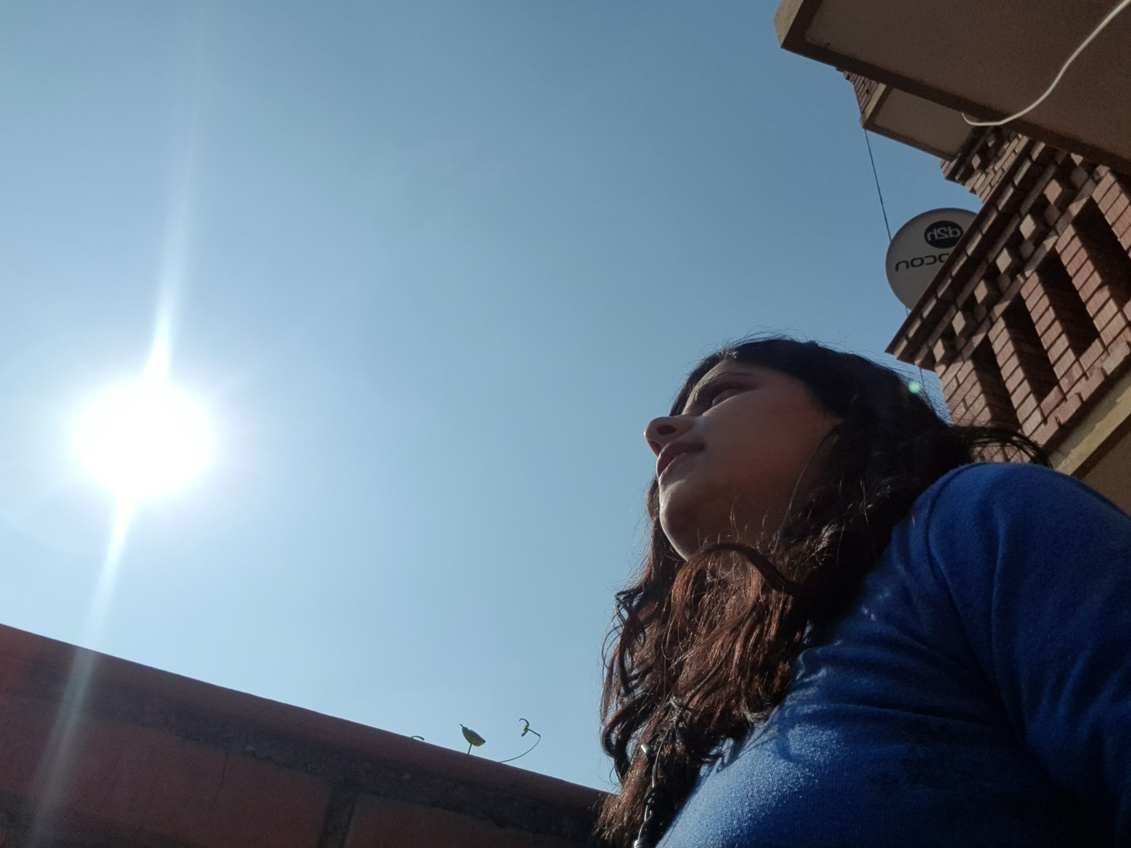
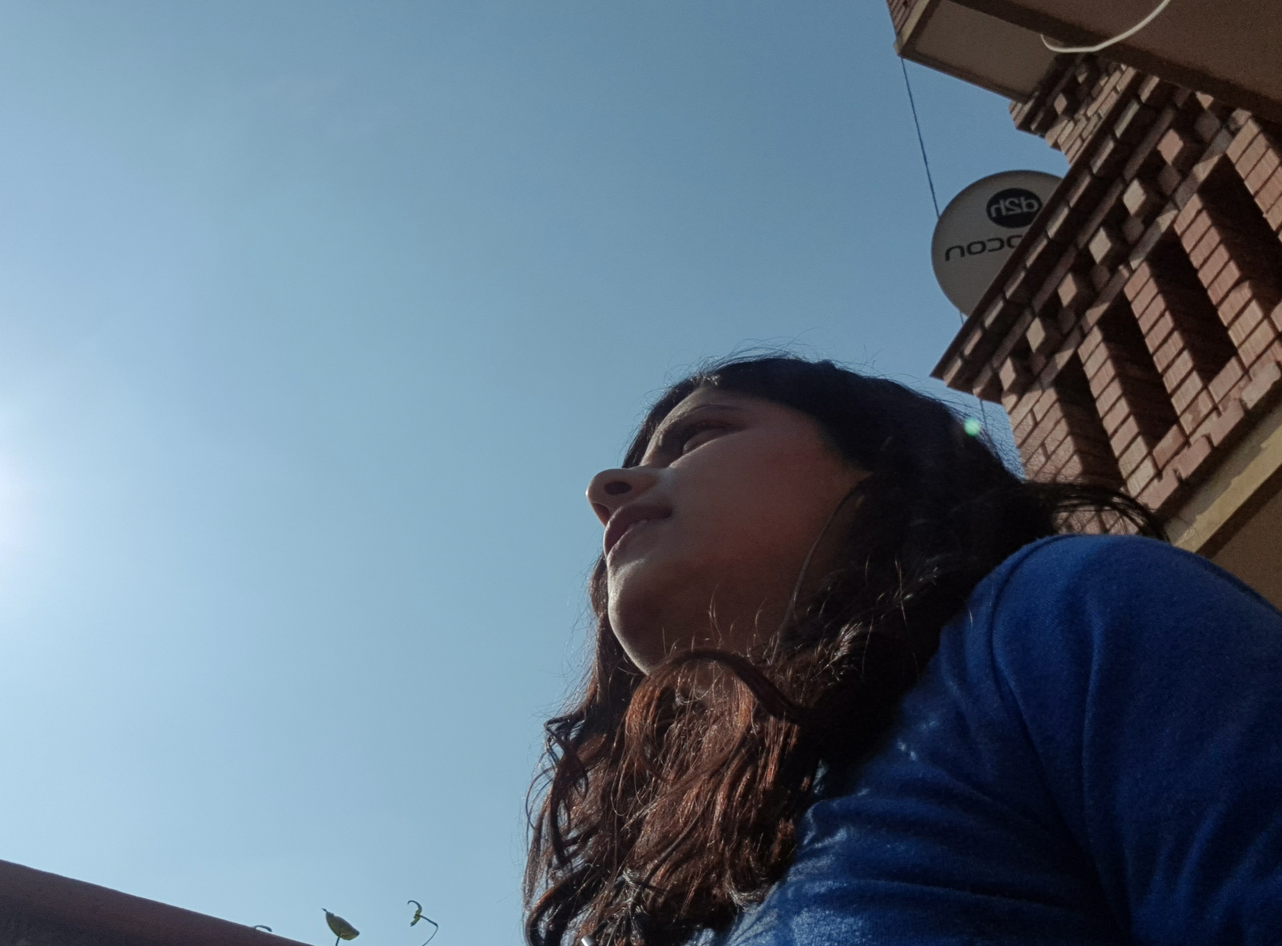
update dp

diff --git a/index.html b/index.html
@@ -43,7 +43,7 @@
 
         <figure class="avatar-box">
           <!-- <img src="./assets/images/my-avatar.png" alt="Sanskriti" width="80"> -->
-          <img src="./assets/images/image_sanskriti.jpg" alt="Sanskriti" width="80">
+          <img src="./assets/images/sanskriti.jpg" alt="Sanskriti" width="80">
         </figure>
 
         <div class="info-content">
